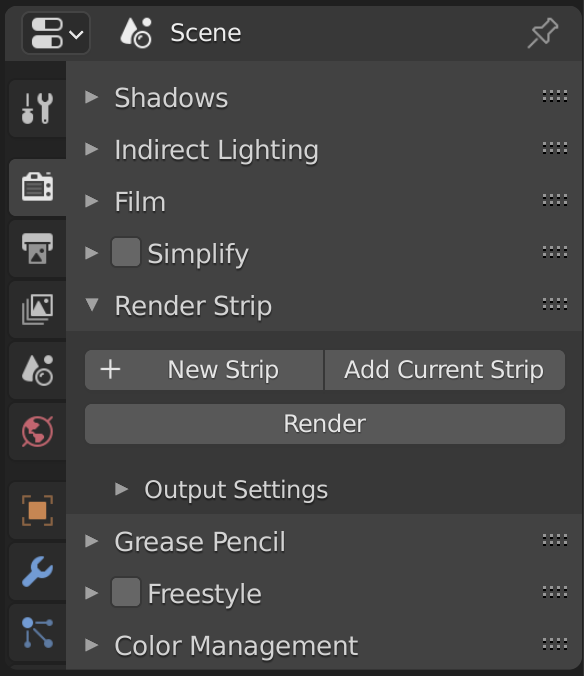
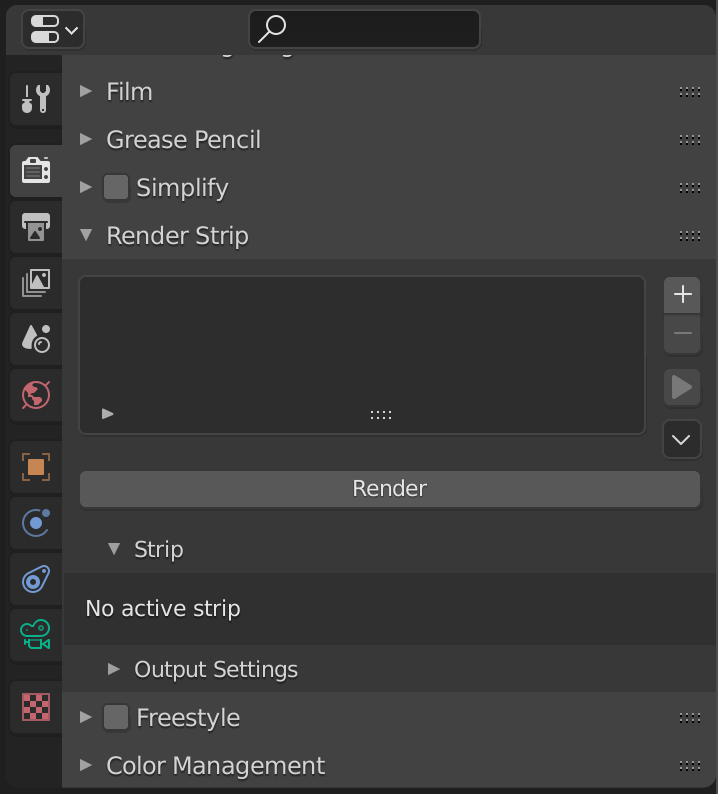
update README and images

diff --git a/README.md b/README.md
@@ -12,22 +12,26 @@ Author: [Lucky Kadam](https://twitter.com/luckykadam94)
 
 <img width=640 src="images/installation.png">
 
-You should now see Render Strip tab in Render Properties.
+You should now see Render Strip panel in Render Properties.
 
-<img width=280 src="images/properties.png">
+<img width=380 src="images/properties.png">
 
 ## Usage
 
-1. Create new strip by clicking on New Strip.
-2. Specify the camera, start frame and end frame. (Optionally name the strip by clicking on `pencil` icon).
+1. Create new strip by clicking on "+" button.
+2. Specify the camera, start frame and end frame.
 3. Select the output path.
 4. Hit Render.
 
-<img width=320 src="images/strips.png">
+<img width=360 src="images/strips.png">
 
-5. For more control on ouptut, take a look at output settings sub-panel.
+5. Optionally set custom render settings for the strip.
 
-<img width=280 src="images/output settings.png">
+<img width=360 src="images/render_settings.png">
+
+6. For more control on ouptut, take a look at output settings sub-panel.
+
+<img width=360 src="images/output_settings.png">
 
 ## Resources
 
